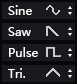
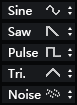
Noise generator

diff --git a/Oscillator.cpp b/Oscillator.cpp
@@ -20,56 +20,7 @@ void Oscillator::setSampleRate(double sampleRate) {
 void Oscillator::updateIncrement() {
 	mPhaseIncrement = mFrequency * 2 * mPI / mSampleRate;
 }
-/*
-//Wave generater
-void Oscillator::generate(double* buffer, int nFrames) {
-	const double twoPI = 2 * mPI;
-	switch (mOscillatorMode) {
-	case OSCILLATOR_MODE_SINE:
-		for (int i = 0; i < nFrames; i++) {
-			buffer[i] = sin(mPhase);
-			mPhase += mPhaseIncrement;
-			while (mPhase >= twoPI) {
-				mPhase -= twoPI;
-			}
-		}
-		break;
-	case OSCILLATOR_MODE_SAW:
-		for (int i = 0; i < nFrames; i++) {
-			buffer[i] = 1.0 - (2.0 * mPhase / twoPI);
-			mPhase += mPhaseIncrement;
-			while (mPhase >= twoPI) {
-				mPhase -= twoPI;
-			}
-		}
-		break;
-	case OSCILLATOR_MODE_SQUARE:
-		for (int i = 0; i < nFrames; i++) {
-			if (mPhase <= mPI) {
-				buffer[i] = 1.0;
-			}
-			else {
-				buffer[i] = -1.0;
-			}
-			mPhase += mPhaseIncrement;
-			while (mPhase >= twoPI) {
-				mPhase -= twoPI;
-			}
-		}
-		break;
-	case OSCILLATOR_MODE_TRIANGLE:
-		for (int i = 0; i < nFrames; i++) {
-			double value = -1.0 + (2.0 * mPhase / twoPI);
-			buffer[i] = 2.0 * (fabs(value) - 0.5);
-			mPhase += mPhaseIncrement;
-			while (mPhase >= twoPI) {
-				mPhase -= twoPI;
-			}
-		}
-		break;
-	}
-}
-*/
+
 double Oscillator::nextSample() {
 	double value = 0.0;
 
@@ -90,6 +41,9 @@ double Oscillator::nextSample() {
 	case OSCILLATOR_MODE_TRIANGLE:
 		value = -1.0 + (2.0 * mPhase / twoPI);
 		value = 2.0 * (fabs(value) - 0.5);
+		break;
+	case OSCILLATOR_MODE_NOISE:
+		value = ((double)(std::rand()) / RAND_MAX) * 2.0 - 1.0;
 		break;
 	}
 	mPhase += mPhaseIncrement;

diff --git a/Synthesis.cpp b/Synthesis.cpp
@@ -73,7 +73,7 @@ Synthesis::Synthesis(IPlugInstanceInfo instanceInfo)
 	// OSC1 Waveform switch
 	GetParam(mOsc1Waveform)->InitEnum("Waveform1", Oscillator::OSCILLATOR_MODE_SINE, Oscillator::kNumOscillatorModes);
 	GetParam(mOsc1Waveform)->SetDisplayText(0, "Sine"); // Needed for VST3, thanks plunntic
-	IBitmap waveformBitmap = pGraphics->LoadIBitmap(WAVEFORM_ID, WAVEFORM_FN, 4);
+	IBitmap waveformBitmap = pGraphics->LoadIBitmap(WAVEFORM_ID, WAVEFORM_FN, 5);
 	pGraphics->AttachControl(new ISwitchControl(this, 42, kGreenRow + kSwitcherTopPadding, mOsc1Waveform, &waveformBitmap));
 
 	// OSC2 Waveform switch

diff --git a/Oscillator.h b/Oscillator.h
@@ -1,6 +1,8 @@
 #pragma once
 
 #include <math.h>
+#include <random>
+#include <ctime>
 
 class Oscillator {
 public:
@@ -9,6 +11,7 @@ public:
 		OSCILLATOR_MODE_SAW,
 		OSCILLATOR_MODE_SQUARE,
 		OSCILLATOR_MODE_TRIANGLE,
+		OSCILLATOR_MODE_NOISE,
 		kNumOscillatorModes
 	};
 private:
@@ -34,5 +37,6 @@ public:
 		mFrequency(440.0),
 		mPhase(0.0) {
 		updateIncrement();
+		std::srand(std::time(0));
 	};
 };
